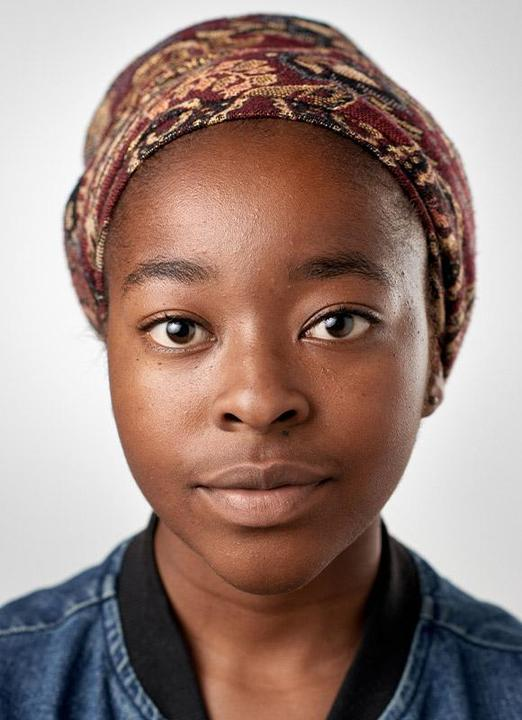
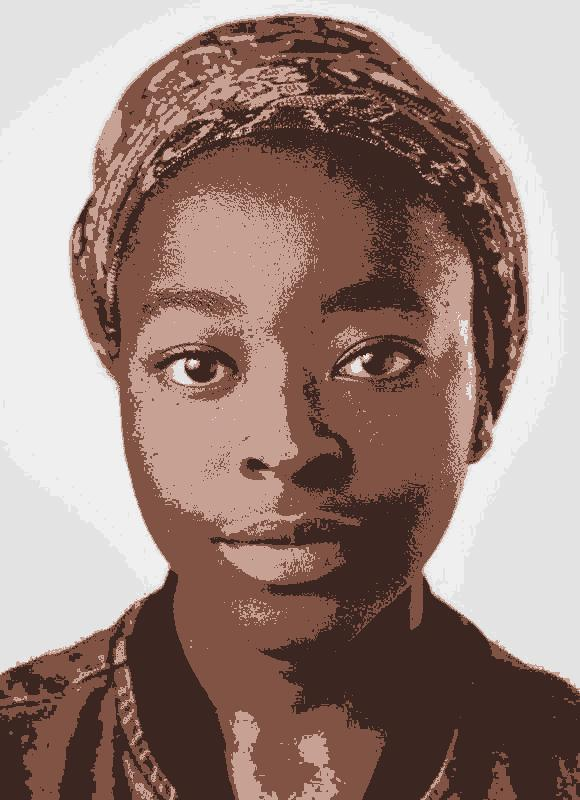
added csv, bug fixes

diff --git a/compress.py b/compress.py
@@ -2,13 +2,14 @@ from PIL import Image
 import os 
 import shutil
 import cv2
+import csv
 
 def colorQuantizeImg(img, numColors):
     """ input: img is a string representing a filename to a portrait
                numColors is an int saying how many colors we want
         output: PIL img of newly color quantized portrait
     """
-    pilImg = Image.open("./photos/" + img) 
+    pilImg = Image.open(img) 
     compImg = pilImg.quantize(colors=numColors, method = None, kmeans = 0,
     palette = None).convert('RGB')
     pilImg.close()
@@ -73,18 +74,32 @@ def haar_cascade(img):
     return (0, 0, 0, 0)
 
 def main(portraits, option = "color_quantization"):
+    
+    # set up CSV for data collection
+    header = ["filename"]
+    
+    if option == "color_quantization":
+        header.append("at what # of colors is the human no longer recognizable?")
+        
+    elif option == "sampling":
+        header.append("at what % compression is the human no longer recognizable?")
+        
+    data = []
+    
     flag = False
     if option == "sampling":
         flag = True
+    
     # loop through each portrait
     for portrait in portraits:
+        data.append([portrait])
+        print()
         print(f"Currently testing {portrait}")
         # run haar_cascade on orig file
-
         # make a copy of the file
         shutil.copyfile("./photos/" + portrait, "./compress_photos/" + portrait)
-        numColors = 255
         portraitPil = Image.open("./photos/" + portrait)
+        numColors = 255
         width, height = portraitPil.size
         percent = 1
         portraitPil.close()
@@ -93,36 +108,46 @@ def main(portraits, option = "color_quantization"):
         orig_coordinates = haar_cascade(portrait)
         while True: 
             # check if portrait is identifiable as human
-            
             if isHuman(portrait, orig_coordinates, scale = flag):
                 if option == "color_quantization":
-                    if numColors > 25:
+                    if numColors <= 25:
                         break
                     numColors -= 25
                     newImg = colorQuantizeImg(portrait, numColors)
                     newImg.save(portrait)
+                    
                 elif option == "sampling":
                     newHeight = int(height * percent)
                     newWidth = int(width * percent)
+
                     if percent <= 0 or newHeight <= 0 or newWidth <= 0:
                         break
                     newImg = sampleImg(portrait, newWidth, newHeight)
                     newImg.save(portrait)
                     percent -= 0.1
+                    
                 else:
                     print("Please pick either color_quantization or sampling.")
-                    
             else:
                 if option == "color_quantization":
                     print(f"Color Quantization: Stopped being human at {numColors}")
+                    data[-1]= [portrait, numColors]
                 elif option == "sampling":   
-                    print(f"Sampling: Stopped being human at {percent*100}% reduction.")
+                    print(f"Sampling: Stopped being human at {percent*100}% compression.")
+                    data[-1] = [portrait, percent * 100]
                 break
-            print()
+        
+    with open(f'{option}.csv', 'w', encoding='UTF8', newline='') as f:
+        writer = csv.writer(f)
+        
+        # write the header
+        writer.writerow(header)
+            
+        # write multiple rows
+        writer.writerows(data)
 
 if __name__ == "__main__":
     # get array of portrait file names 
     path = "./photos/"
     portraits = os.listdir(path)
-    print(portraits)
-    main(portraits, "sampling")
+    main(portraits)
